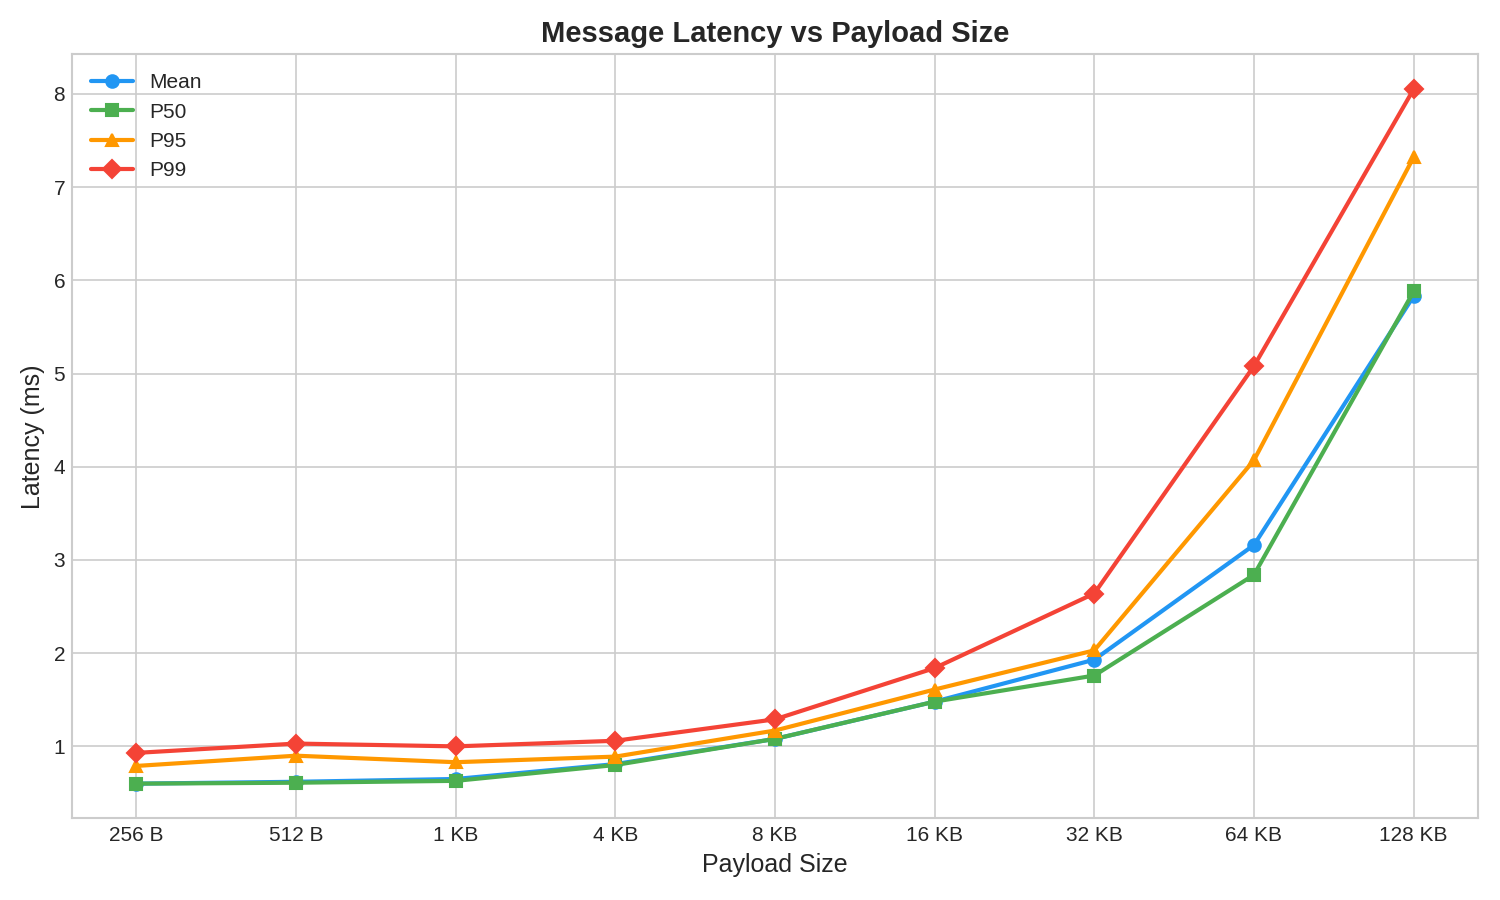
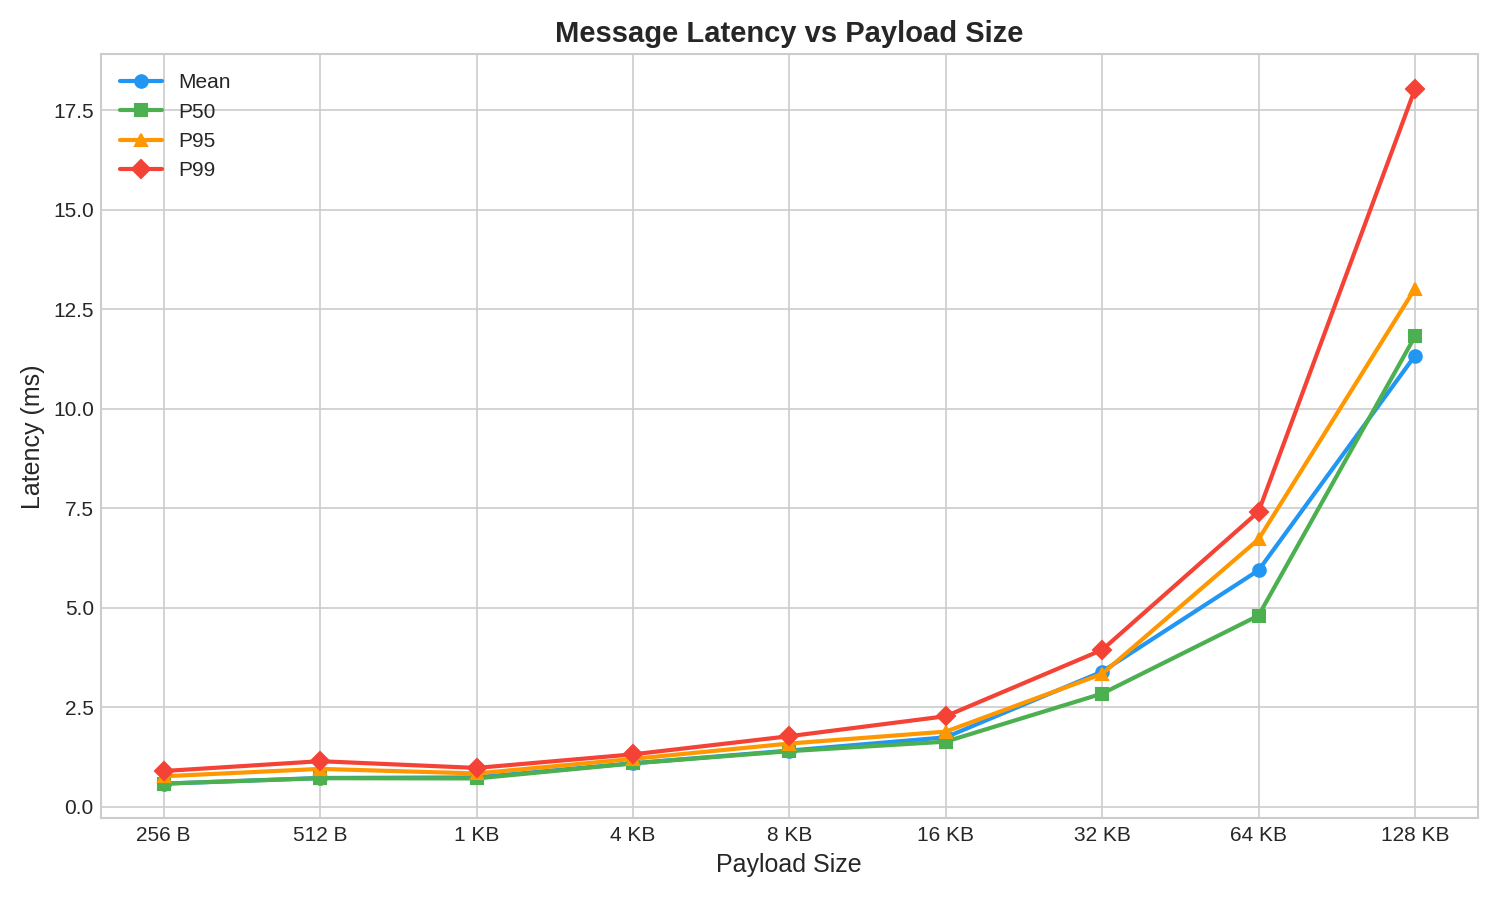
fix: use fixed-size payloads in benchmark tool
Replace random payload generation (1..=max) with fixed-size payloads
for accurate and reproducible benchmark results. Remove rand dependency.

diff --git a/crates/benchmark/src/main.rs b/crates/benchmark/src/main.rs
@@ -17,7 +17,6 @@ use narwhal_protocol::Nid;
 use narwhal_protocol::{AclAction, AclType, QoS};
 use narwhal_util::pool::Pool;
 use narwhal_util::string_atom::StringAtom;
-use rand::prelude::*;
 use std::net::SocketAddr;
 use std::str::FromStr;
 use tracing::{error, info, warn};
@@ -48,9 +47,9 @@ struct Cli {
   #[arg(short, long, default_value = "30s", value_parser = parse_duration)]
   duration: Duration,
 
-  /// Maximum size of message payload in bytes
+  /// Size of message payload in bytes
   #[arg(long, default_value = "16384")]
-  max_payload_size: usize,
+  payload_size: usize,
 }
 
 /// Parse duration from string (supports: 30s, 5m, 1h)
@@ -338,7 +337,7 @@ async fn broadcast_messages(
   clients: &[C2sClient],
   channels: &[StringAtom],
   duration: Duration,
-  max_payload_size: usize,
+  payload_size: usize,
 ) -> (u64, hdrhistogram::Histogram<u64>) {
   info!("broadcasting messages across channels for {:?}...", duration);
 
@@ -355,7 +354,7 @@ async fn broadcast_messages(
     let max_inflight_requests =
       client.session_info().await.ok().map(|(info, _)| info.max_inflight_requests).unwrap_or(1);
 
-    let client_pool = Pool::new(max_inflight_requests as usize, max_payload_size);
+    let client_pool = Pool::new(max_inflight_requests as usize, payload_size);
     let client_hist = arc_histogram.clone();
 
     let task = compio::runtime::spawn(async move {
@@ -370,7 +369,7 @@ async fn broadcast_messages(
         let task_client = client.clone();
         let task_payload_pool = client_pool.clone();
 
-        task_set.push(broadcast_message(task_channel, task_client, task_payload_pool, max_payload_size));
+        task_set.push(broadcast_message(task_channel, task_client, task_payload_pool, payload_size));
 
         channel_idx += 1;
       }
@@ -398,7 +397,7 @@ async fn broadcast_messages(
 
           channel_idx += 1;
 
-          task_set.push(broadcast_message(task_channel, task_client, task_payload_pool, max_payload_size));
+          task_set.push(broadcast_message(task_channel, task_client, task_payload_pool, payload_size));
         }
       }
 
@@ -426,11 +425,10 @@ async fn broadcast_message(
   channel: StringAtom,
   client: C2sClient,
   payload_pool: Pool,
-  max_payload_size: usize,
+  payload_size: usize,
 ) -> anyhow::Result<u64> {
   let mut payload_buffer = payload_pool.acquire_buffer().await;
-  let random_size = rand::rng().random_range(1..=max_payload_size);
-  let payload = payload_buffer.freeze(random_size);
+  let payload = payload_buffer.freeze(payload_size);
 
   let start = Instant::now();
 
@@ -455,7 +453,7 @@ async fn run_benchmark(cli: Cli) -> Result<BenchmarkMetrics> {
   );
 
   // Print additional information
-  info!("max payload size: {} bytes", cli.max_payload_size);
+  info!("payload size: {} bytes", cli.payload_size);
 
   let start_time = Instant::now();
 
@@ -532,7 +530,7 @@ async fn perform_benchmark(cli: &Cli, metrics: &mut BenchmarkMetrics) -> Result<
 
   // Only producers broadcast messages (round-robin across all channels)
   let (messages_sent, latency_histogram) =
-    broadcast_messages(&producer_clients, &channels, cli.duration, cli.max_payload_size).await;
+    broadcast_messages(&producer_clients, &channels, cli.duration, cli.payload_size).await;
   metrics.total_messages_sent = messages_sent;
   metrics.latency_histogram = Some(latency_histogram);
 

diff --git a/docs/BENCHMARK.md b/docs/BENCHMARK.md
@@ -32,7 +32,7 @@ cargo build --release -p narwhal-benchmark
   --producers 1 \
   --consumers 1 \
   --duration 1m \
-  --max-payload-size 256
+  --payload-size 256
 ```
 
 ### Available Options
@@ -42,7 +42,7 @@ cargo build --release -p narwhal-benchmark
 - `-c, --consumers <N>`: Number of consumer clients (default: 10)
 - `-n, --channels <N>`: Number of channels to create (default: 1)
 - `-d, --duration <TIME>`: Duration to run the benchmark (supports: 30s, 5m, 1h)
-- `--max-payload-size <BYTES>`: Maximum size of message payload in bytes (default: 16384)
+- `--payload-size <BYTES>`: Size of message payload in bytes (default: 16384)
 - `-w, --worker-threads <N>`: Number of worker threads to use (default: 0, auto-detect)
 
 ## Results
@@ -53,15 +53,15 @@ All benchmarks were run with 1 producer and 1 consumer for 60 seconds, averaged 
 
 | Payload Size | Throughput (msg/s) | Data Throughput | Mean Latency | P50 | P95 | P99 | Avg Total Messages | Runs |
 |--------------|-------------------:|----------------:|-------------:|----:|----:|----:|-------------------:|-----:|
-| 256 B        |            162,843 |       20.8 MB/s |        0.60ms | 0.60ms | 0.79ms | 0.93ms |          9,800,844 | 10/10 |
-| 512 B        |            157,430 |       40.3 MB/s |        0.62ms | 0.61ms | 0.90ms | 1.03ms |          9,475,422 | 10/10 |
-| 1 KB         |            153,214 |       78.4 MB/s |        0.65ms | 0.63ms | 0.83ms | 1.00ms |          9,223,401 | 10/10 |
-| 4 KB         |            123,012 |      251.9 MB/s |        0.81ms | 0.80ms | 0.89ms | 1.06ms |          7,403,481 | 10/10 |
-| 8 KB         |             92,529 |      379.0 MB/s |        1.08ms | 1.08ms | 1.17ms | 1.29ms |          5,569,542 | 10/10 |
-| 16 KB        |             68,017 |      557.2 MB/s |        1.48ms | 1.48ms | 1.61ms | 1.84ms |          4,110,314 | 10/10 |
-| 32 KB        |             51,197 |      838.8 MB/s |        1.93ms | 1.76ms | 2.03ms | 2.64ms |          3,111,557 | 10/10 |
-| 64 KB        |             31,085 |       1.02 GB/s |        3.16ms | 2.84ms | 4.07ms | 5.08ms |          1,897,140 | 10/10 |
-| 128 KB       |             16,841 |       1.10 GB/s |        5.83ms | 5.88ms | 7.32ms | 8.05ms |          1,029,126 | 10/10 |
+| 256 B        |            167,474 |       42.9 MB/s |        0.58ms | 0.58ms | 0.77ms | 0.90ms |         10,079,529 | 10/10 |
+| 512 B        |            142,951 |       73.2 MB/s |        0.73ms | 0.72ms | 0.95ms | 1.15ms |          8,605,220 | 10/10 |
+| 1 KB         |            136,912 |      140.2 MB/s |        0.74ms | 0.71ms | 0.84ms | 0.98ms |          8,245,518 | 10/10 |
+| 4 KB         |             91,630 |      375.3 MB/s |        1.10ms | 1.09ms | 1.21ms | 1.32ms |          5,515,447 | 10/10 |
+| 8 KB         |             70,099 |      574.2 MB/s |        1.41ms | 1.40ms | 1.59ms | 1.78ms |          4,241,880 | 10/10 |
+| 16 KB        |             56,671 |      928.5 MB/s |        1.75ms | 1.64ms | 1.89ms | 2.28ms |          3,424,357 | 10/10 |
+| 32 KB        |             29,425 |      964.2 MB/s |        3.40ms | 2.85ms | 3.34ms | 3.94ms |          1,784,276 | 10/10 |
+| 64 KB        |             16,648 |       1.09 GB/s |        5.94ms | 4.81ms | 6.72ms | 7.42ms |          1,014,276 | 10/10 |
+| 128 KB       |              8,675 |       1.14 GB/s |       11.33ms | 11.82ms | 13.02ms | 18.03ms |            529,619 | 10/10 |
 
 ### Visual Performance Analysis
 
@@ -69,7 +69,7 @@ All benchmarks were run with 1 producer and 1 consumer for 60 seconds, averaged 
 
 ![Message Throughput vs Payload Size](benchmark_msg_throughput.png)
 
-This graph shows how message throughput (messages per second) varies with payload size. Each data point is the average of 10 runs. Peak performance is achieved with small payloads, delivering over 162,000 messages per second on average.
+This graph shows how message throughput (messages per second) varies with payload size. Each data point is the average of 10 runs. Peak performance is achieved with 256 B payloads, delivering over 167,000 messages per second on average.
 
 #### Latency
 
@@ -81,20 +81,20 @@ This graph compares Mean, P50, P95, and P99 latency across different payload siz
 
 ![Data Throughput vs Payload Size](benchmark_data_throughput.png)
 
-This graph illustrates the actual data throughput. While message rate decreases with larger payloads, the overall bandwidth increases significantly, peaking at 1.10 GB/s with 128 KB payloads.
+This graph illustrates the actual data throughput. While message rate decreases with larger payloads, the overall bandwidth increases significantly, peaking at 1.14 GB/s with 128 KB payloads.
 
 ### Key Observations
 
-1. **Peak Throughput**: Achieved with 256 B payloads at ~162,843 messages/second
-2. **Consistent Low Latency**: Sub-1ms mean latency maintained across small payload sizes (256B - 1KB), sub-2ms up to 32KB
+1. **Peak Throughput**: Achieved with 256 B payloads at ~167,474 messages/second
+2. **Consistent Low Latency**: Sub-1ms mean latency maintained across small payload sizes (256B - 1KB), sub-2ms up to 16KB
 3. **Payload Size Impact**: As payload size increases, message throughput decreases while data throughput increases, which is expected due to larger data transfers
-4. **Latency Stability**: P99 latency remains very low across all payload sizes, indicating consistent performance
+4. **Latency Stability**: P99 latency remains low across all payload sizes, indicating consistent performance
 5. **Zero Errors**: All benchmarks completed without any message loss or errors
-6. **Peak Bandwidth**: 1.10 GB/s achieved at 128 KB payload
+6. **Peak Bandwidth**: 1.14 GB/s achieved at 128 KB payload
 
 ## Notes
 
 - All benchmarks were run on a local machine with the server and client on the same host
 - Network latency in production environments will add to the observed latency values
-- The benchmark tool generates random payloads up to the specified maximum size
+- The benchmark tool uses fixed-size payloads as specified by the `--payload-size` flag
 - Results may vary based on hardware, OS, and system load
